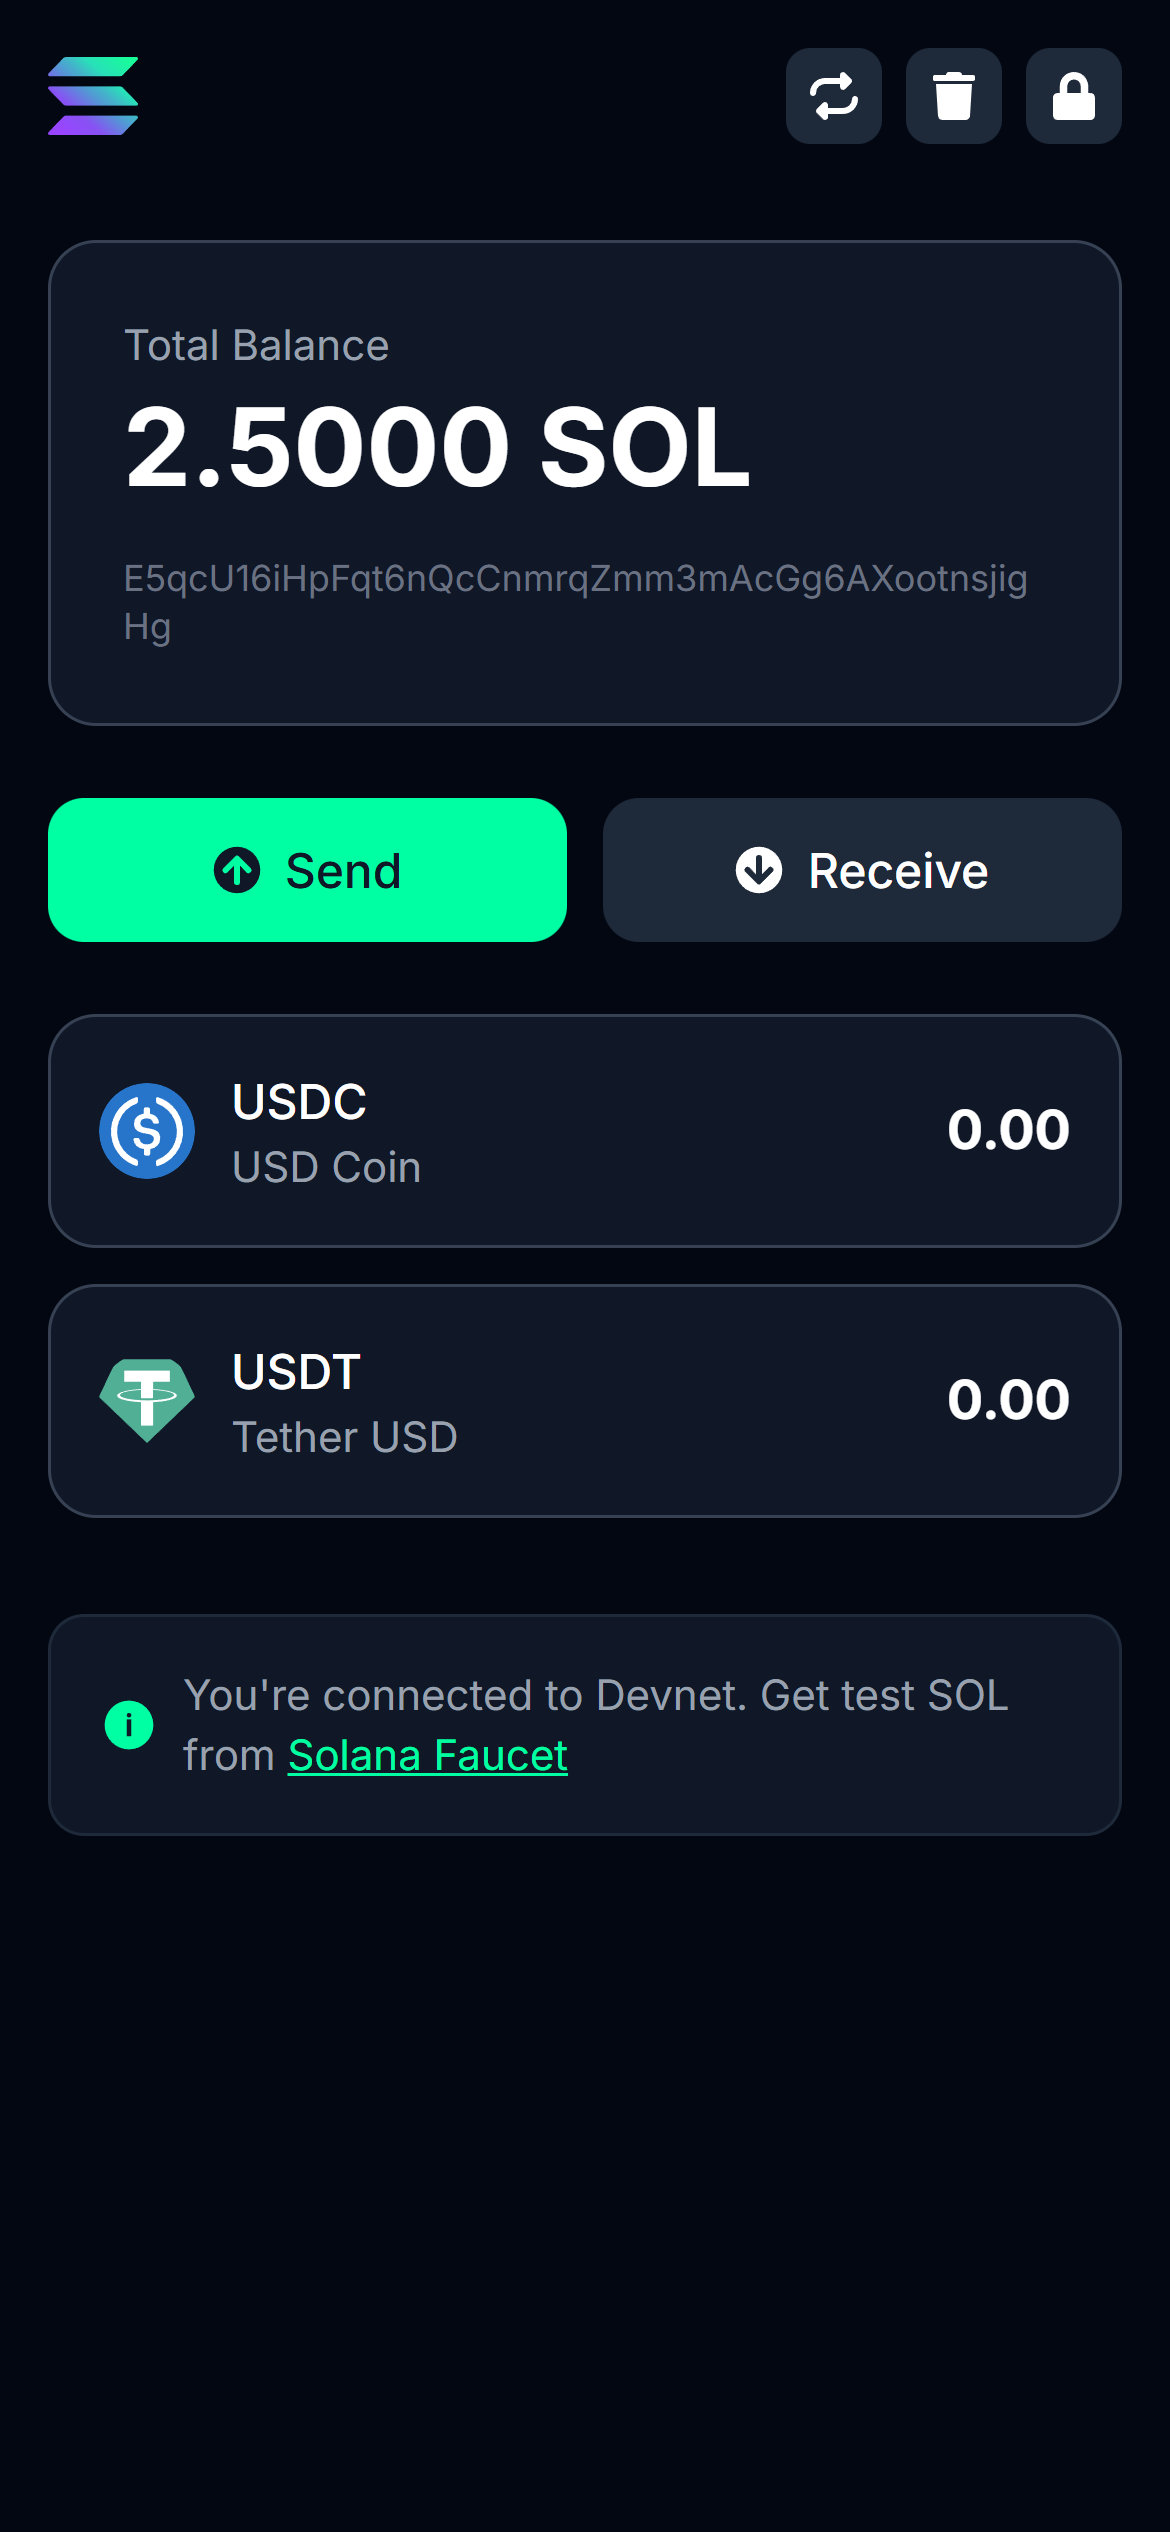
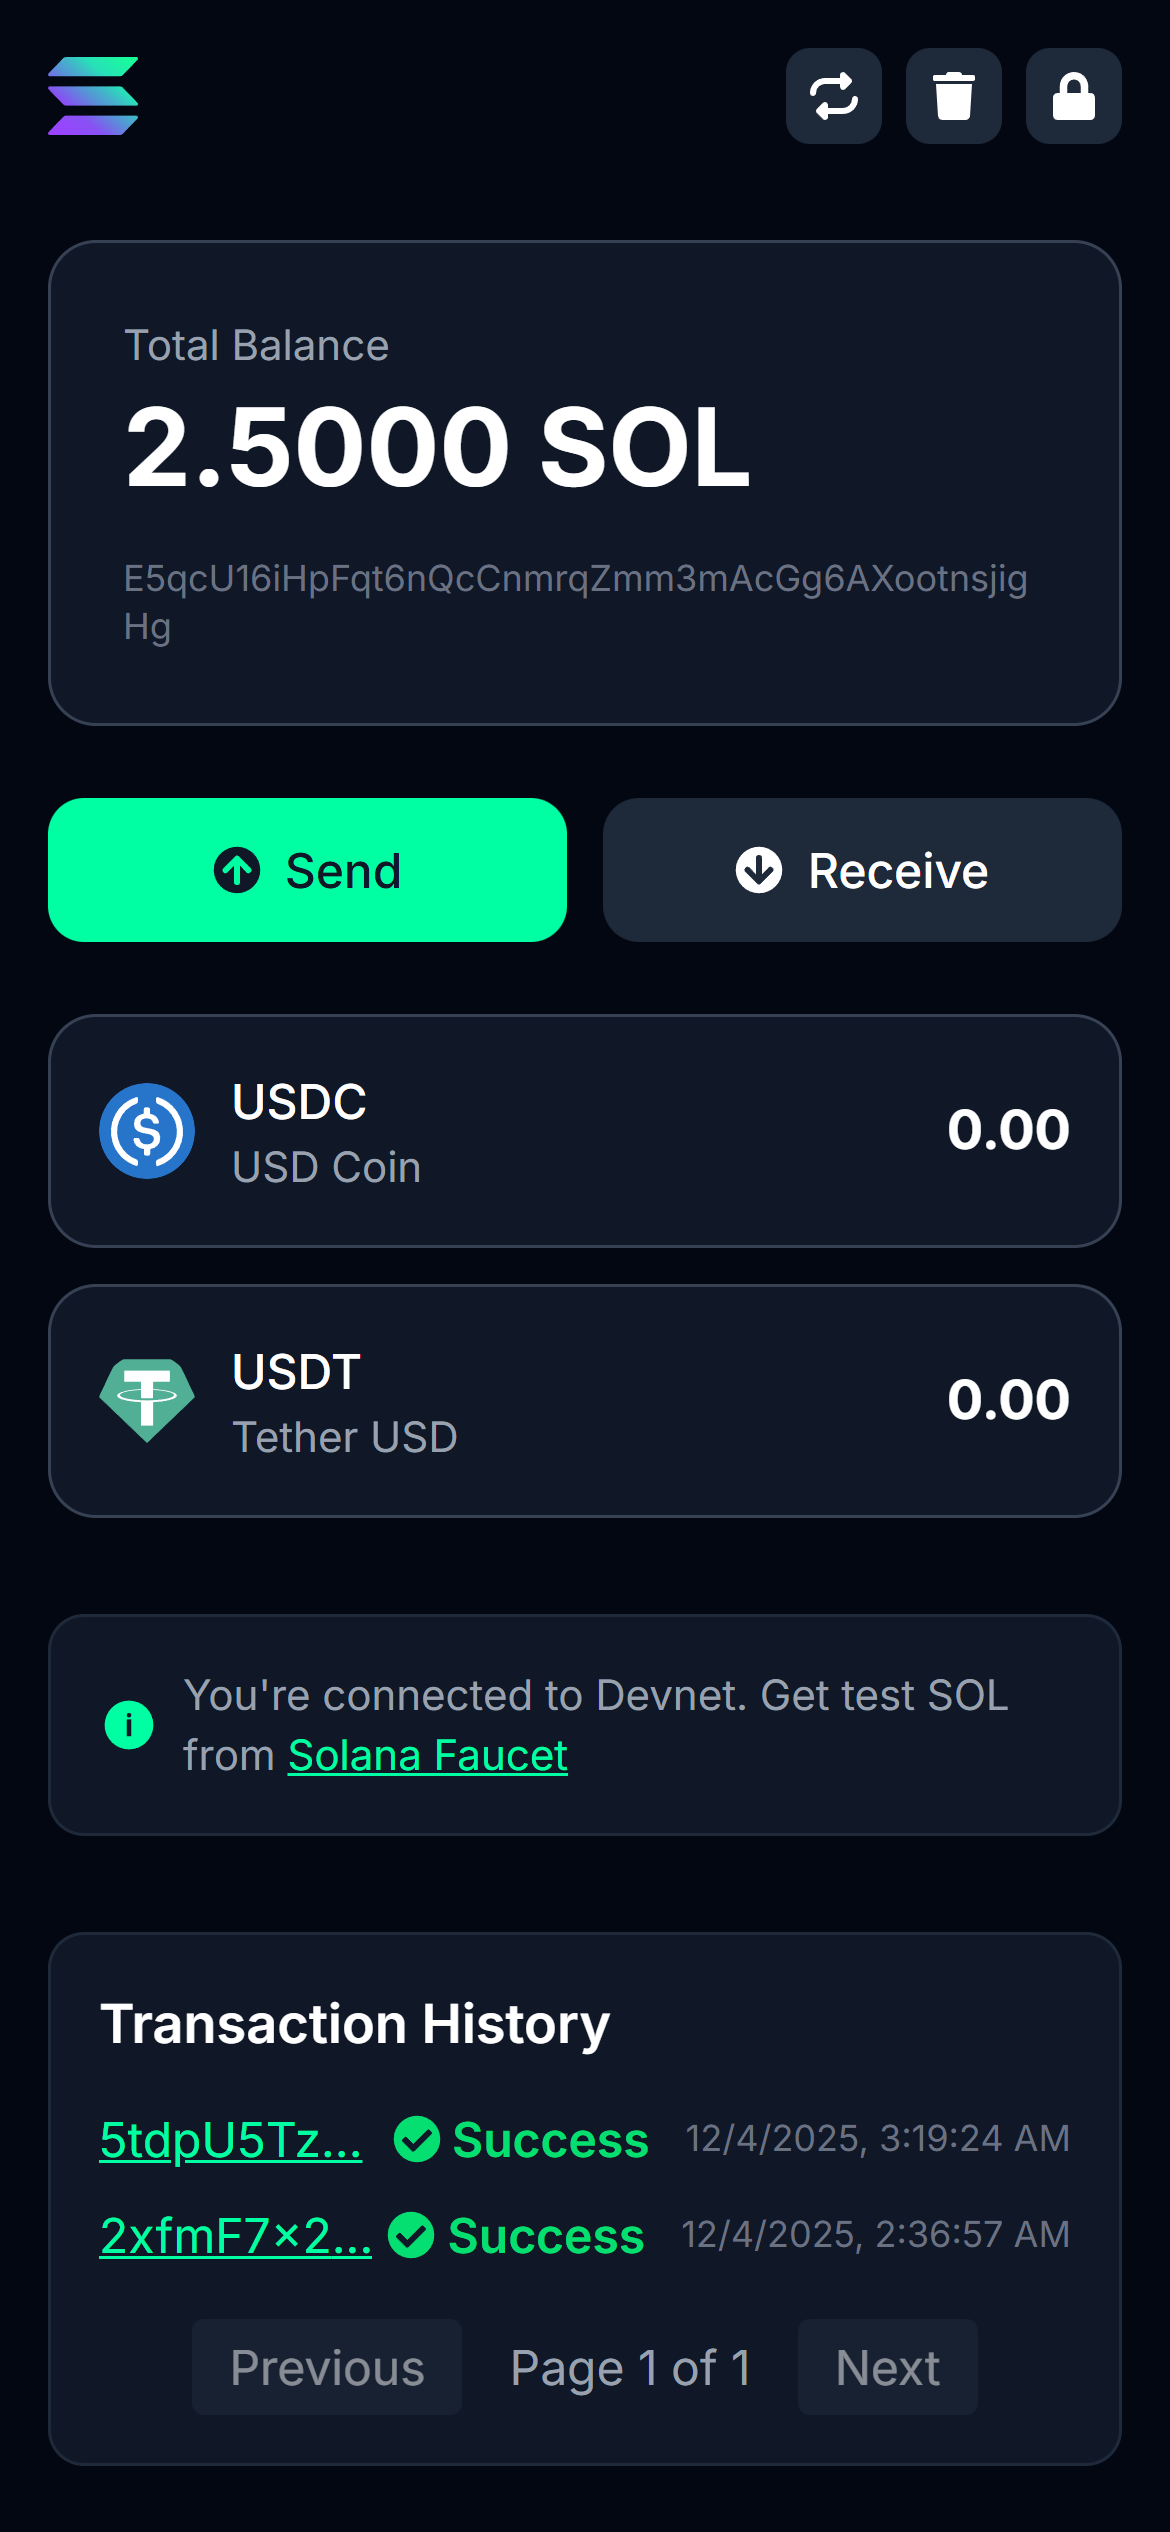
feat: transaction history

Changed region(s): [[0.0923, 0.78, 0.5538, 0.9672], [0.5846, 0.8424, 0.9231, 0.9672], [0.4615, 0.936, 0.5231, 0.9672]]

diff --git a/src/features/transaction/history/ui/TransactionHistory.tsx b/src/features/transaction/history/ui/TransactionHistory.tsx
@@ -1,0 +1,99 @@
+import { useEffect, useState } from "react";
+import { useWalletStore } from "../../../../entities/wallet";
+import { FaCheckCircle, FaTimesCircle, FaClock } from "react-icons/fa";
+
+const PAGE_SIZE = 10;
+
+export function TransactionsList() {
+    const { transactions, fetchTransactions } = useWalletStore();
+    const [currentPage, setCurrentPage] = useState(1);
+    const [totalPages, setTotalPages] = useState(1);
+
+    useEffect(() => {
+        const loadTransactions = async () => {
+            await fetchTransactions(100); // fetch last 100 tx for pagination
+            setCurrentPage(1);
+        };
+        loadTransactions();
+    }, []);
+
+    useEffect(() => {
+        setTotalPages(Math.ceil(transactions.length / PAGE_SIZE) || 1);
+    }, [transactions]);
+
+    const paginatedTransactions = transactions.slice((currentPage - 1) * PAGE_SIZE, currentPage * PAGE_SIZE);
+
+    const getStatusLabel = (status: "Success" | "Failed" | "Pending") => {
+        switch (status) {
+            case "Success":
+                return (
+                    <span className="flex items-center gap-1 text-green-400 font-semibold">
+                        <FaCheckCircle /> Success
+                    </span>
+                );
+            case "Failed":
+                return (
+                    <span className="flex items-center gap-1 text-red-500 font-semibold">
+                        <FaTimesCircle /> Failed
+                    </span>
+                );
+            case "Pending":
+                return (
+                    <span className="flex items-center gap-1 text-yellow-400 font-semibold">
+                        <FaClock /> Pending
+                    </span>
+                );
+            default:
+                return status;
+        }
+    };
+
+    return (
+        <div className="mt-8 p-4 bg-gray-900 border border-gray-800 rounded-xl">
+            <h3 className="text-white text-lg font-semibold mb-3">Transaction History</h3>
+
+            <div className="max-h-80 overflow-y-auto">
+                <ul className="space-y-2">
+                    {paginatedTransactions.map((tx) => (
+                        <li key={tx.signature} className="text-gray-300 flex justify-between items-center">
+                            <a
+                                href={tx.solscanLink}
+                                target="_blank"
+                                rel="noopener noreferrer"
+                                className="text-[#00FFA3] underline truncate max-w-[60%]"
+                            >
+                                {tx.signature.slice(0, 8)}...
+                            </a>
+                            <span className="flex gap-3 items-center">
+                                {getStatusLabel(tx.status as "Success" | "Failed" | "Pending")}
+                                <span className="text-gray-500 text-xs">
+                                    {tx.blockTime ? new Date(tx.blockTime * 1000).toLocaleString() : "Pending"}
+                                </span>
+                            </span>
+                        </li>
+                    ))}
+                </ul>
+            </div>
+
+            <div className="mt-4 flex justify-center gap-2">
+                <button
+                    onClick={() => setCurrentPage((prev) => Math.max(prev - 1, 1))}
+                    disabled={currentPage === 1}
+                    className="px-3 py-1 bg-gray-800 rounded hover:bg-gray-700 disabled:opacity-50"
+                >
+                    Previous
+                </button>
+                <span className="text-gray-400 px-2 py-1">
+                    Page {currentPage} of {totalPages}
+                </span>
+                <button
+                    onClick={() => setCurrentPage((prev) => Math.min(prev + 1, totalPages))}
+                    disabled={currentPage === totalPages}
+                    className="px-3 py-1 bg-gray-800 rounded hover:bg-gray-700 disabled:opacity-50"
+                >
+                    Next
+                </button>
+            </div>
+        </div>
+    );
+}

diff --git a/src/entities/wallet/model/store.ts b/src/entities/wallet/model/store.ts
@@ -3,12 +3,14 @@ import * as bip39 from "bip39";
 import { Keypair, PublicKey, Connection, LAMPORTS_PER_SOL } from "@solana/web3.js";
 import { getAssociatedTokenAddress } from "@solana/spl-token";
 import { cryptoLib, storageLib } from "../../../shared";
+import type { Transaction } from "../types";
 import { Buffer } from "buffer";
 
 interface WalletState {
     publicKey: string | null;
     isUnlocked: boolean;
     balance: { sol: number; usdc: number; usdt: number };
+    transactions: Transaction[];
     unlock: (password: string) => Promise<boolean>;
     lock: () => void;
     createWallet: (password: string, seedPhrase: string) => Promise<void>;
@@ -16,6 +18,7 @@ interface WalletState {
     deleteWallet: () => Promise<void>;
     refreshBalance: () => Promise<void>;
     getKeypair: (password: string) => Promise<Keypair | null>;
+    fetchTransactions: (limit?: number) => Promise<void>;
 }
 
 export const useWalletStore = create<WalletState>((set, get) => ({
@@ -122,6 +125,30 @@ export const useWalletStore = create<WalletState>((set, get) => ({
         } catch (error) {
             console.error("Failed to get keypair:", error);
             return null;
+        }
+    },
+    transactions: [],
+
+    fetchTransactions: async (limit = 10) => {
+        const { publicKey } = get();
+        if (!publicKey) return;
+
+        try {
+            const connection = new Connection("https://api.devnet.solana.com");
+            const pubKey = new PublicKey(publicKey);
+
+            const signatures = await connection.getSignaturesForAddress(pubKey, { limit });
+
+            const transactions: Transaction[] = signatures.map((sigInfo) => ({
+                signature: sigInfo.signature,
+                status: sigInfo.err ? "Failed" : "Success",
+                blockTime: sigInfo.blockTime ?? null,
+                solscanLink: `https://solscan.io/tx/${sigInfo.signature}?cluster=devnet`,
+            }));
+
+            set({ transactions });
+        } catch (error) {
+            console.error("Failed to fetch transactions:", error);
         }
     },
 }));

diff --git a/src/pages/dashboard/ui/DashboardPage.tsx b/src/pages/dashboard/ui/DashboardPage.tsx
@@ -3,6 +3,7 @@ import { useWalletStore, BalanceCard, TokenList } from "../../../entities/wallet
 import { Button, Modal } from "../../../shared";
 import { SendTransaction } from "../../../features/transaction/send";
 import ReceiveTransaction from "../../../features/transaction/receive";
+import { TransactionsList } from "../../../features/transaction/history";
 
 import { IoIosInformationCircle } from "react-icons/io";
 import { FaRepeat } from "react-icons/fa6";
@@ -77,6 +78,8 @@ export const DashboardPage = () => {
                         </span>
                     </p>
                 </div>
+
+                <TransactionsList />
             </div>
 
             <Modal isOpen={showSend} onClose={() => setShowSend(false)} title="Send Transaction">

diff --git a/src/entities/wallet/types.ts b/src/entities/wallet/types.ts
@@ -1,0 +1,6 @@
+export interface Transaction {
+    signature: string;
+    status: "Success" | "Failed";
+    blockTime: number | null;
+    solscanLink: string;
+}

diff --git a/src/features/transaction/history/index.ts b/src/features/transaction/history/index.ts
@@ -1,0 +1,1 @@
+export * from "./ui/TransactionHistory";
